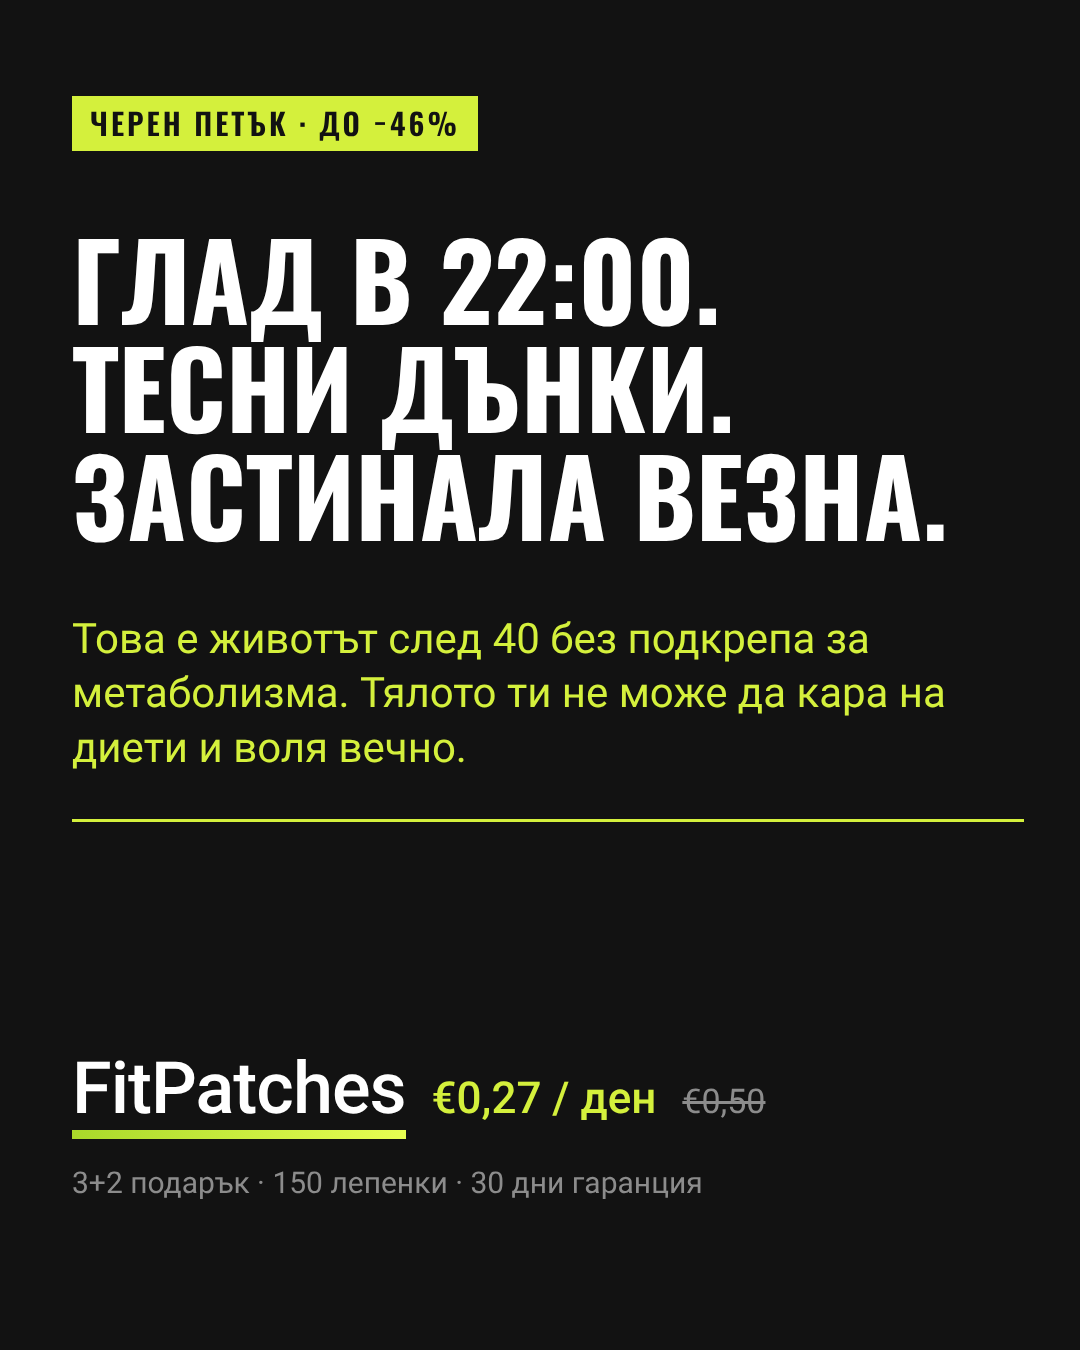
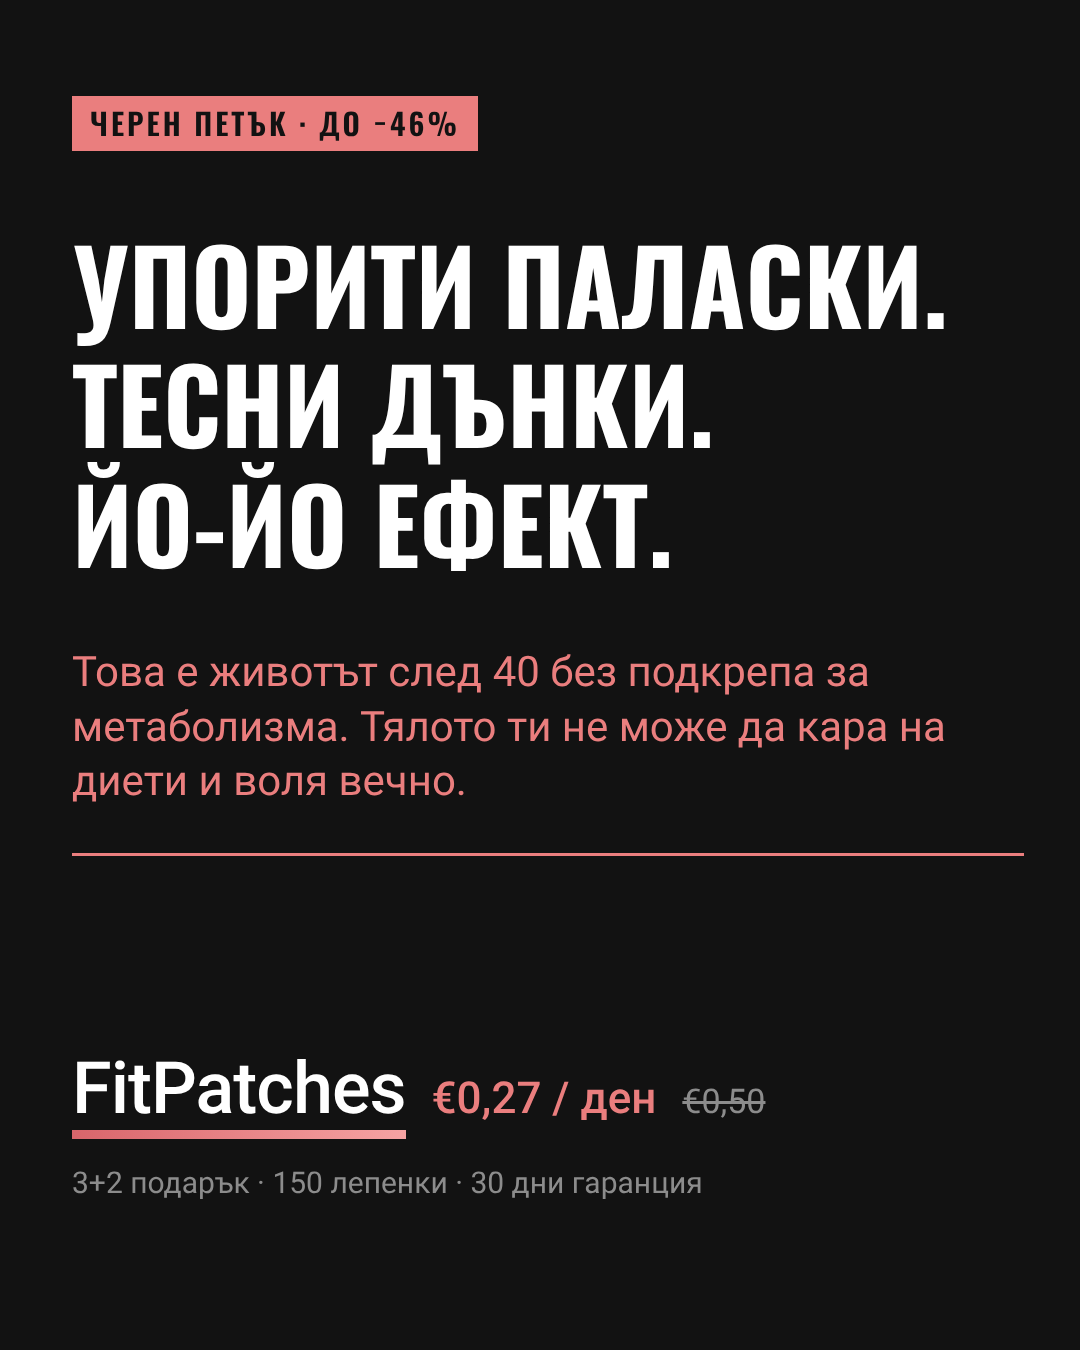
Ad 2: love-handles headline, yo-yo line, FitPatches pink accent
Claude-Session: https://claude.ai/code/session_015eS5bvrvuy1hCfQrMMuavd

diff --git a/black-friday/02-tri-dumi/ad.html b/black-friday/02-tri-dumi/ad.html
@@ -8,7 +8,7 @@
   :root {
     --bg: #121212;
     --ink: #ffffff;
-    --lime: #d4f03c;
+    --accent: #ea7e7e;
     --muted: #8c8c8c;
     --pad: 72px;
   }
@@ -29,23 +29,23 @@
     align-self: flex-start;
     font-family: 'Oswald', sans-serif; font-weight: 600;
     font-size: 30px; letter-spacing: 3px; line-height: 1;
-    color: var(--bg); background: var(--lime);
+    color: var(--bg); background: var(--accent);
     padding: 12px 18px 13px;
   }
   h1 {
     margin-top: 72px;
     font-family: 'Oswald', sans-serif; font-weight: 700;
-    font-size: 138px; line-height: 1.02; letter-spacing: 0;
+    font-size: 138px; line-height: 1.16; letter-spacing: 0;
     text-transform: uppercase; white-space: nowrap;
   }
   .sub {
     margin-top: 64px; width: 880px;
     font-family: 'Roboto', sans-serif; font-weight: 400;
-    font-size: 42px; line-height: 1.3; color: var(--lime);
+    font-size: 42px; line-height: 1.3; color: var(--accent);
   }
   .rule {
     margin-top: 44px;
-    height: 3px; background: var(--lime);
+    height: 3px; background: var(--accent);
   }
   .brand {
     margin-top: auto;
@@ -58,11 +58,11 @@
   }
   .brand .name::after {
     content: ""; position: absolute; left: 0; right: 0; bottom: -14px;
-    height: 9px; background: linear-gradient(90deg, #a9d92a, #e8ff52);
+    height: 9px; background: linear-gradient(90deg, #d9656b, #f6a3a3);
   }
   .brand .price {
     font-family: 'Roboto', sans-serif; font-weight: 500;
-    font-size: 44px; color: var(--lime);
+    font-size: 44px; color: var(--accent);
   }
   .brand .old {
     font-family: 'Roboto', sans-serif; font-weight: 400;
@@ -78,7 +78,7 @@
 <body>
   <div class="ad">
     <div class="tag">ЧЕРЕН ПЕТЪК · ДО −46%</div>
-    <h1>Глад в 22:00.<br>Тесни дънки.<br>Застинала везна.</h1>
+    <h1>Упорити паласки.<br>Тесни дънки.<br>Йо-йо ефект.</h1>
     <p class="sub">Това е животът след 40 без подкрепа за метаболизма. Тялото ти не може да кара на диети и воля вечно.</p>
     <div class="rule"></div>
     <div class="brand">

diff --git a/black-friday/02-tri-dumi/copy.md b/black-friday/02-tri-dumi/copy.md
@@ -1,4 +1,4 @@
-# Black Friday 2026 — Реклама 2: „Три думи“ (по Testograph)
+# Black Friday 2026 — Реклама 2: „Три думи“ (по Testograph, розово #EA7E7E)
 
 Картинка: `fitpatches-bf-02-4x5.png` (1080×1350), източник `ad.html`.
 Рендер: отвори `ad.html` в Chromium на 1080×1350 и направи скрийншот.
@@ -7,7 +7,7 @@
 
 Метаболизмът след 40 без подкрепа изглежда така:
 
-Работа, деца, сметки, диета, която не издържа до петък, вечеря „само една хапка“ права пред хладилника, дънки, които уж „са се свили от прането“, кантар, който не мърда.
+Работа, деца, сметки, диета, която не издържа до петък, вечеря „само една хапка“ права пред хладилника, паласки, които не помръдват, дънки, които уж „са се свили от прането“, и килограми, които се връщат след всяка диета.
 
 Вечер в 22:00 първата мисъл е „нещо сладко“.
 
